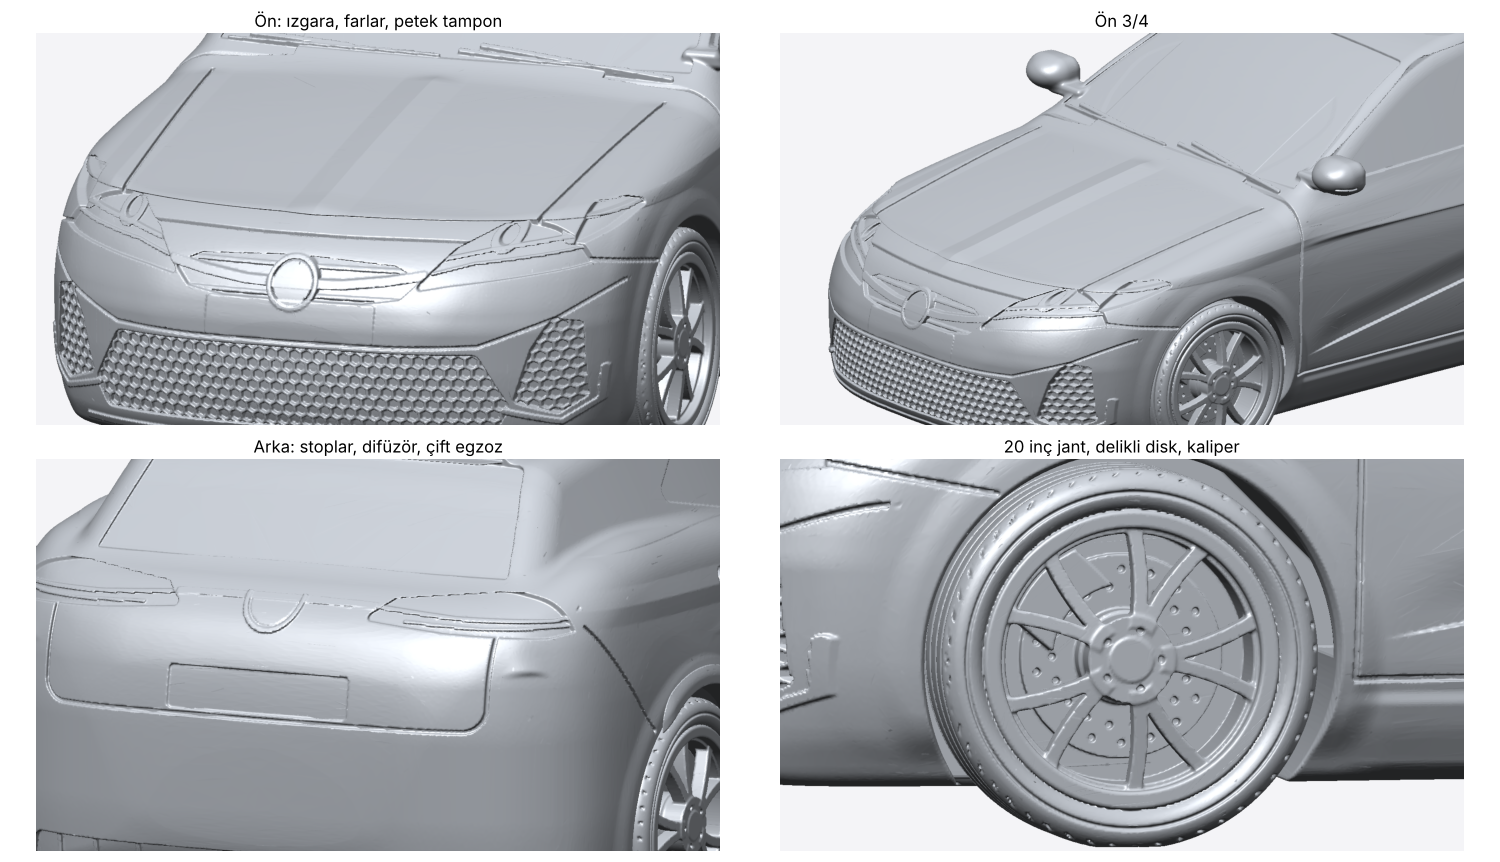
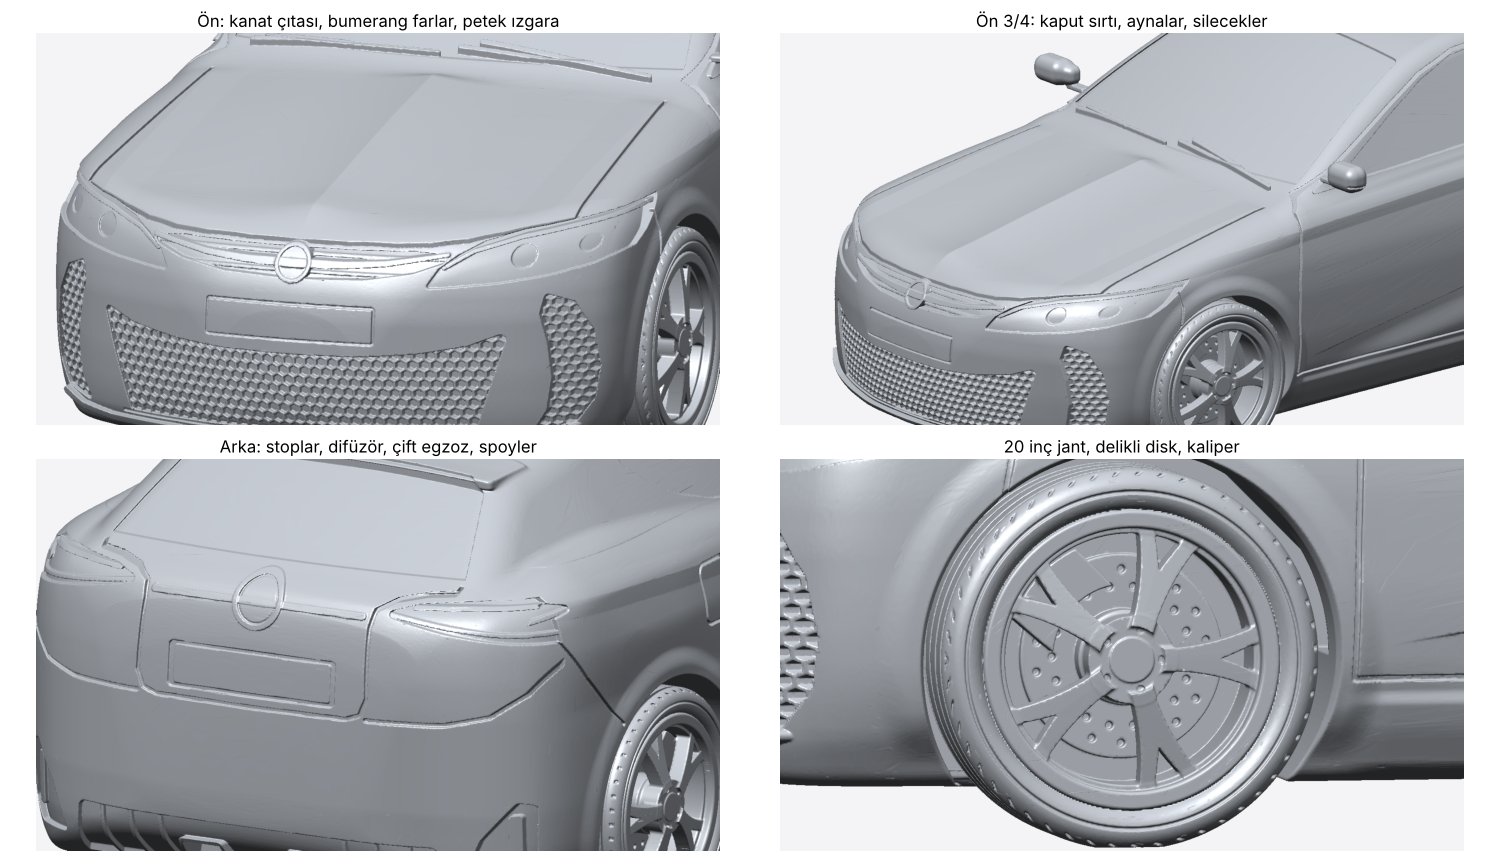
3d-model: GTC sergi sürümü (0.10 mm ızgara), önizlemeler ve README
İki tur ajan denetimi sonrası tek parça ve teker STL'leri yeniden üretildi.

Claude-Session: https://claude.ai/code/session_01SNSnCKvF9RN3567rMS6J62

diff --git a/3d-model/README.md b/3d-model/README.md
@@ -7,8 +7,8 @@ Astra J GTC (2011–2018, 3 kapı) OPC donanımlı. Gerçek aracın ölçüleriy
 
 | Ölçü | Gerçek araç | Maket (1:24) |
 |---|---|---|
-| Boy | 4466 mm | ~185 mm |
-| Genişlik (aynasız / aynalı) | 1840 / 2020 mm | 76.7 / 84.7 mm |
+| Boy | 4466 mm | 185.2 mm |
+| Genişlik (aynasız / aynalı) | 1840 / 2020 mm | 76.5 / 84.0 mm |
 | Yükseklik | 1482 mm | ~61 mm |
 | Aks mesafesi | 2695 mm | 112.3 mm |
 | İz genişliği (ön / arka) | 1584 / 1588 mm | 66 mm |
@@ -18,13 +18,13 @@ Astra J GTC (2011–2018, 3 kapı) OPC donanımlı. Gerçek aracın ölçüleriy
 
 | Dosya | Ne için |
 |---|---|
-| `astra_gtc_tek_parca.stl` | Tekerlekler gövdeye bağlı, tek parça (1.16 M üçgen) |
+| `astra_gtc_tek_parca.stl` | Tekerlekler gövdeye bağlı, tek parça (1.67 M üçgen) |
 | `astra_gtc_govde.stl` | **Kit:** tekerleksiz gövde, alt yüzeyi düz, aks delikli |
 | `astra_gtc_teker.stl` | **Kit:** tek tekerlek. **4 adet** basılır |
 | `astra_gtc_olustur.py` | Tüm STL'leri üreten betik (ölçek ve çözünürlük ayarlanabilir) |
 
 Tüm dosyalar su geçirmez (manifold) ve tek gövdedir; dilimleyicide onarım gerekmez.
-Yüzey 0.15 mm ızgarada çıkarıldı, sadeleştirmede en fazla 0.005 mm sapma var.
+Yüzey **0.10 mm** ızgarada çıkarıldı, sadeleştirmede en fazla 0.005 mm sapma var.
 
 ## Modeldeki detaylar
 
@@ -114,13 +114,41 @@ Tekerlekler döner.
 
 ```bash
 pip install numpy scipy scikit-image trimesh manifold3d
-python3 astra_gtc_olustur.py                 # 1:24, hepsi (~3 dk)
+python3 astra_gtc_olustur.py --h 0.10        # sergi kalitesi, 1:24 (~5 dk)
+python3 astra_gtc_olustur.py                 # 0.15 mm ızgara, daha hızlı
 python3 astra_gtc_olustur.py --olcek 18      # 1:18 (~248 mm)
-python3 astra_gtc_olustur.py --h 0.12        # daha ince ızgara (daha yavaş, daha detaylı)
 ```
 
 Aks delikleri baskı ölçüsünde sabittir (1.75 mm filament), ölçek değişse de aynı kalır.
 1:18'de aks boyu ≈ 62 × 24 / 18 ≈ 83 mm olur.
+
+## Denetim süreci
+
+Model iki tur boyunca üç ayrı denetçi ajan tarafından incelendi: ön yüz, yan profil ve arka/üst görünüş.
+Her tur standart açılardan görüntü alındı. Ajanlar bunları gerçek Astra J GTC ile karşılaştırıp milimetre cinsinden düzeltmeler önerdi ve her düzeltmeyi ayrı bir kopyada deneyerek doğruladı.
+
+- **Oranlar ve kabin:**
+  - Genişlik 1836 mm'ye indirildi.
+  - Kabin üstten bakınca daralıyor, arka çamurluk üstlerinde basamak oluşuyor.
+  - C direği içe yatıyor.
+  - Kapı ile cam arasında yaklaşık 50 mm'lik omuz basamağı var.
+- **Yan:**
+  - GTC'ye özgü, arkaya sivrilen yan cam.
+  - Keskin kenarı üstte olan "bıçak" çizgisi.
+  - Kapı kolu omuz çizgisinin üzerinde.
+- **Ön:**
+  - Kaputun altına giren büyük bumerang farlar.
+  - İnce, sivri kaput sırtı.
+  - Gülümseme şeklinde petek ızgara.
+  - Bumerang şeklinde köşe hava girişleri.
+  - Gerçek boyutta rozet halkası.
+  - Düz üstlü, ince kollu aynalar.
+- **Arka:**
+  - Dik arka kapak ve küçük "ördek kuyruğu".
+  - Daha yatık ve uzun arka cam.
+  - Tavanın devamı gibi duran spoyler.
+  - Kanat şeklinde stoplar ve gövdeyle uyumlu bagaj kapağı çizgisi.
+  - OPC difüzörü ve köşe hava girişleri.
 
 ## Kaynak ve doğruluk
 
